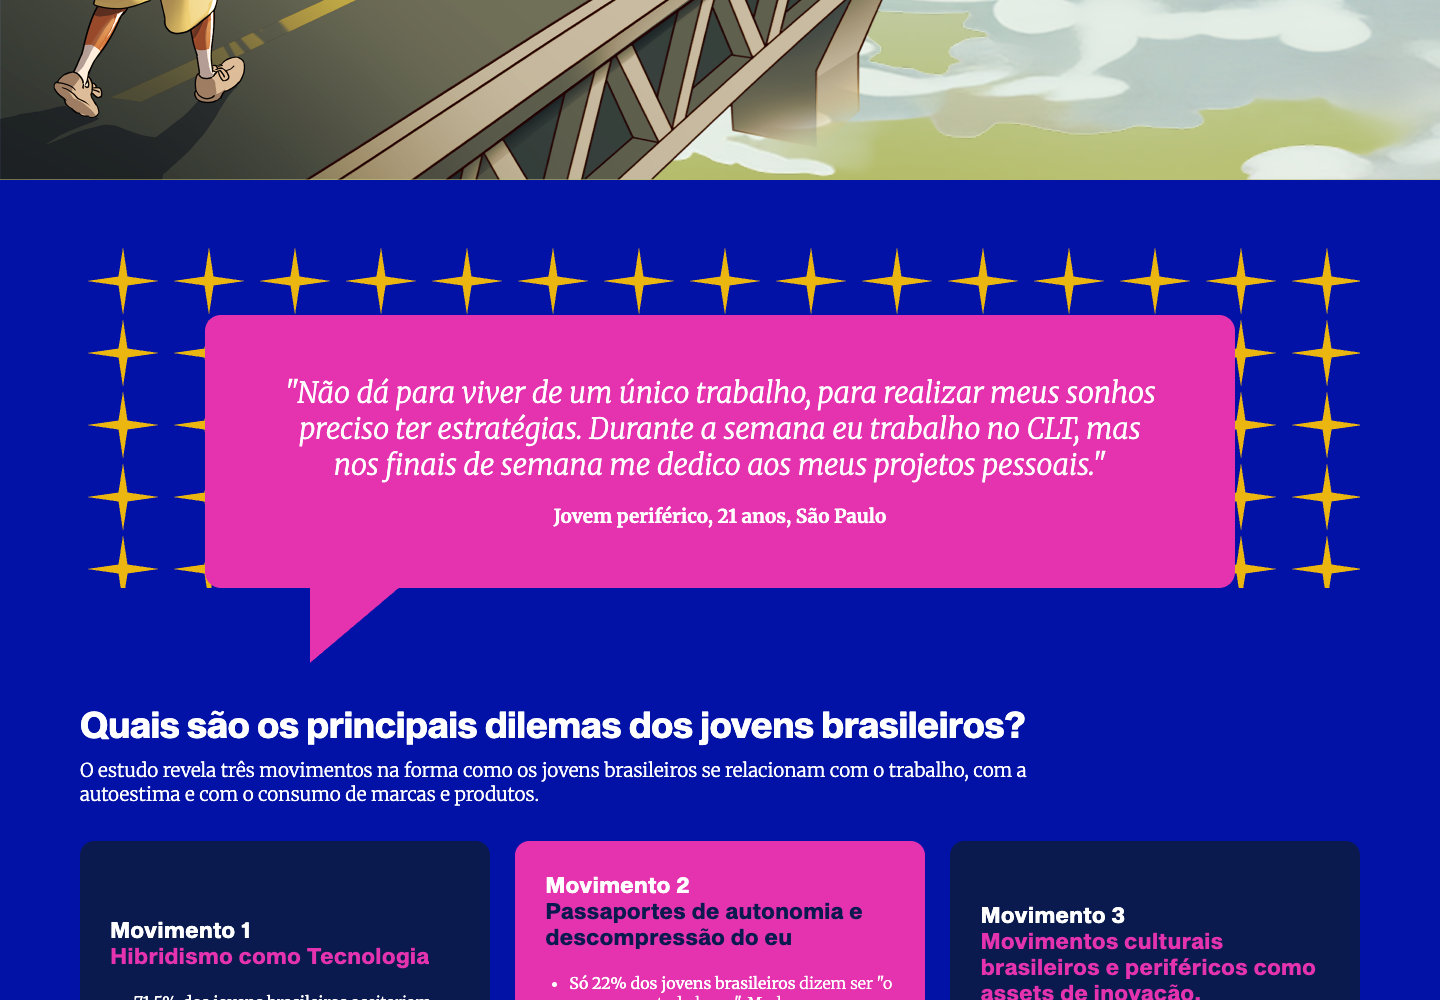
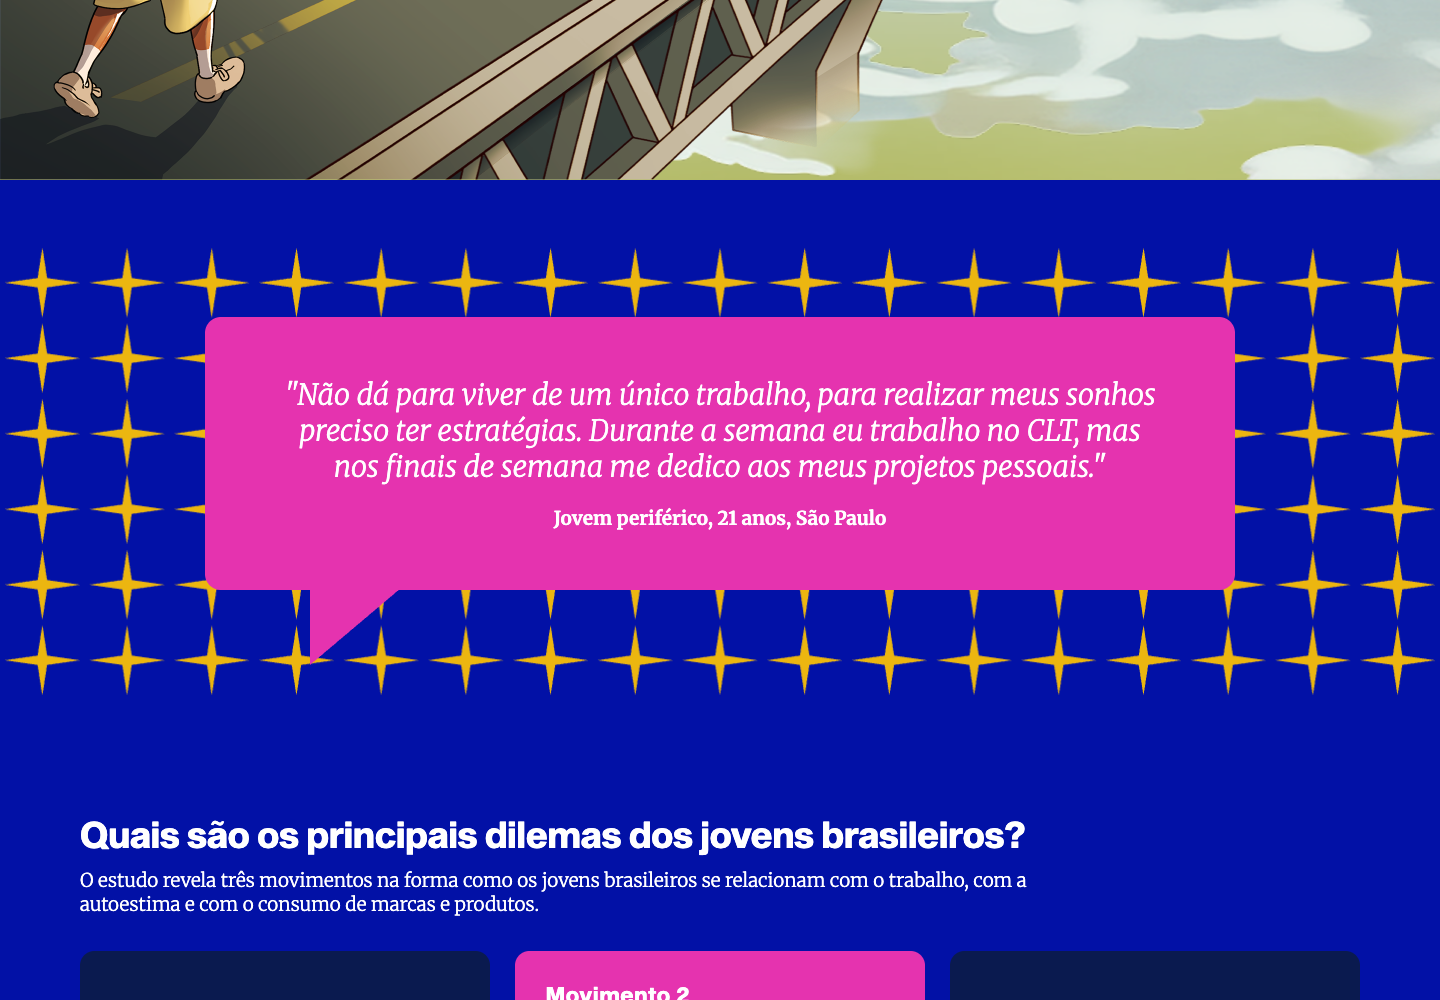
Complete desktop star borders and center section transitions

diff --git a/design.css b/design.css
@@ -985,3 +985,31 @@ tbody th { color: white; background: var(--pink); border-radius: 12px; font-weig
 @media (max-width: 720px) {
   .hero-summary span { width: fit-content; max-width: 100%; margin-inline: auto; padding: 3px 8px; background: var(--blue); }
 }
+
+/* Desktop follow-up: complete star rows and clear transition medallions. */
+@media (min-width: 721px) {
+  .stars::before, .concepts::before, .scope::before, .movements::before {
+    left: 0;
+    right: 0;
+    background-repeat: round no-repeat;
+    background-size: 86px 65px;
+  }
+  .quote-scene {
+    width: 100vw;
+    margin-left: calc(50% - 50vw);
+    padding: 72px 0 0;
+    background-size: 86px 72px;
+    background-repeat: round;
+  }
+  .quote-scene .quote { margin-inline: auto; }
+  .movements { padding-bottom: 240px; }
+  .movements::before { bottom: 125px; height: 65px; }
+  .services { padding-top: 140px; }
+  .services > .transition-ring {
+    left: 50%;
+    top: -97.5px;
+    transform: translateX(-50%);
+    object-position: center;
+  }
+}
+.developer-credit a { text-decoration: underline; text-underline-offset: 3px; }
